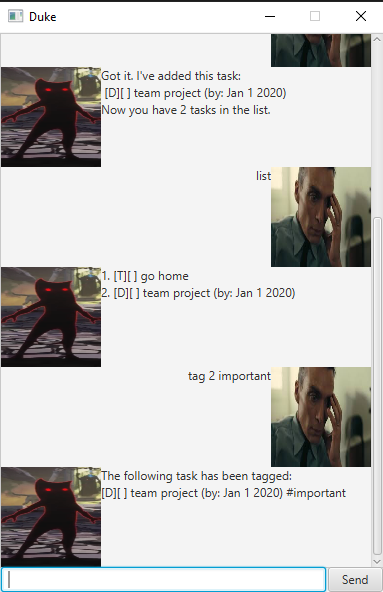
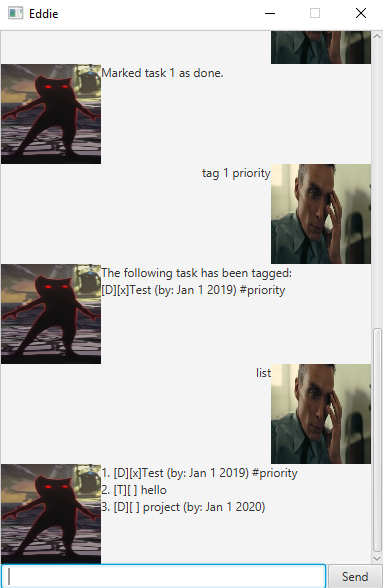
Refactor duke to be named as Eddie

diff --git a/src/main/java/Eddie/Eddie.java b/src/main/java/Eddie/Eddie.java
@@ -1,8 +1,6 @@
 package Eddie;
 
 import Eddie.GUI.DialogBox;
-import Eddie.GUI.Ui;
-import Eddie.Tasks.Task;
 import javafx.application.Application;
 import javafx.scene.Scene;
 import javafx.scene.control.Button;
@@ -20,7 +18,7 @@ import javafx.scene.image.ImageView;
 /**
  * The central control point for the chatbot Eddie.
  */
-public class Duke extends Application {
+public class Eddie extends Application {
     private ScrollPane scrollPane;
     private VBox dialogContainer;
     private TextField userInput;
@@ -53,7 +51,7 @@ public class Duke extends Application {
         stage.show();
 
         //Step 2. Formatting the window to look as expected
-        stage.setTitle("Duke");
+        stage.setTitle("Eddie");
         stage.setResizable(false);
         stage.setMinHeight(600.0);
         stage.setMinWidth(400.0);

diff --git a/src/main/java/Eddie/Launcher.java b/src/main/java/Eddie/Launcher.java
@@ -6,6 +6,6 @@ import javafx.application.Application;
  */
 public class Launcher {
     public static void main(String[] args) {
-        Application.launch(Duke.class, args);
+        Application.launch(Eddie.class, args);
     }
 }

diff --git a/README.md b/README.md
@@ -1,4 +1,4 @@
-# Eddie.Duke project template
+# Eddie.Eddie project template
 
 This is a project template for a greenfield Java project. It's named after the Java mascot _Duke_. Given below are instructions on how to use it.
 
@@ -13,7 +13,7 @@ Prerequisites: JDK 11, update Intellij to the most recent version.
    1. If there are any further prompts, accept the defaults.
 1. Configure the project to use **JDK 11** (not other versions) as explained in [here](https://www.jetbrains.com/help/idea/sdk.html#set-up-jdk).<br>
    In the same dialog, set the **Project language level** field to the `SDK default` option.
-3. After that, locate the `src/main/java/Eddie.Duke.java` file, right-click it, and choose `Run Eddie.Duke.main()` (if the code editor is showing compile errors, try restarting the IDE). If the setup is correct, you should see something like the below as the output:
+3. After that, locate the `src/main/java/Eddie.Eddie.java` file, right-click it, and choose `Run Eddie.Eddie.main()` (if the code editor is showing compile errors, try restarting the IDE). If the setup is correct, you should see something like the below as the output:
    ```
    Hello from
     ____        _        
